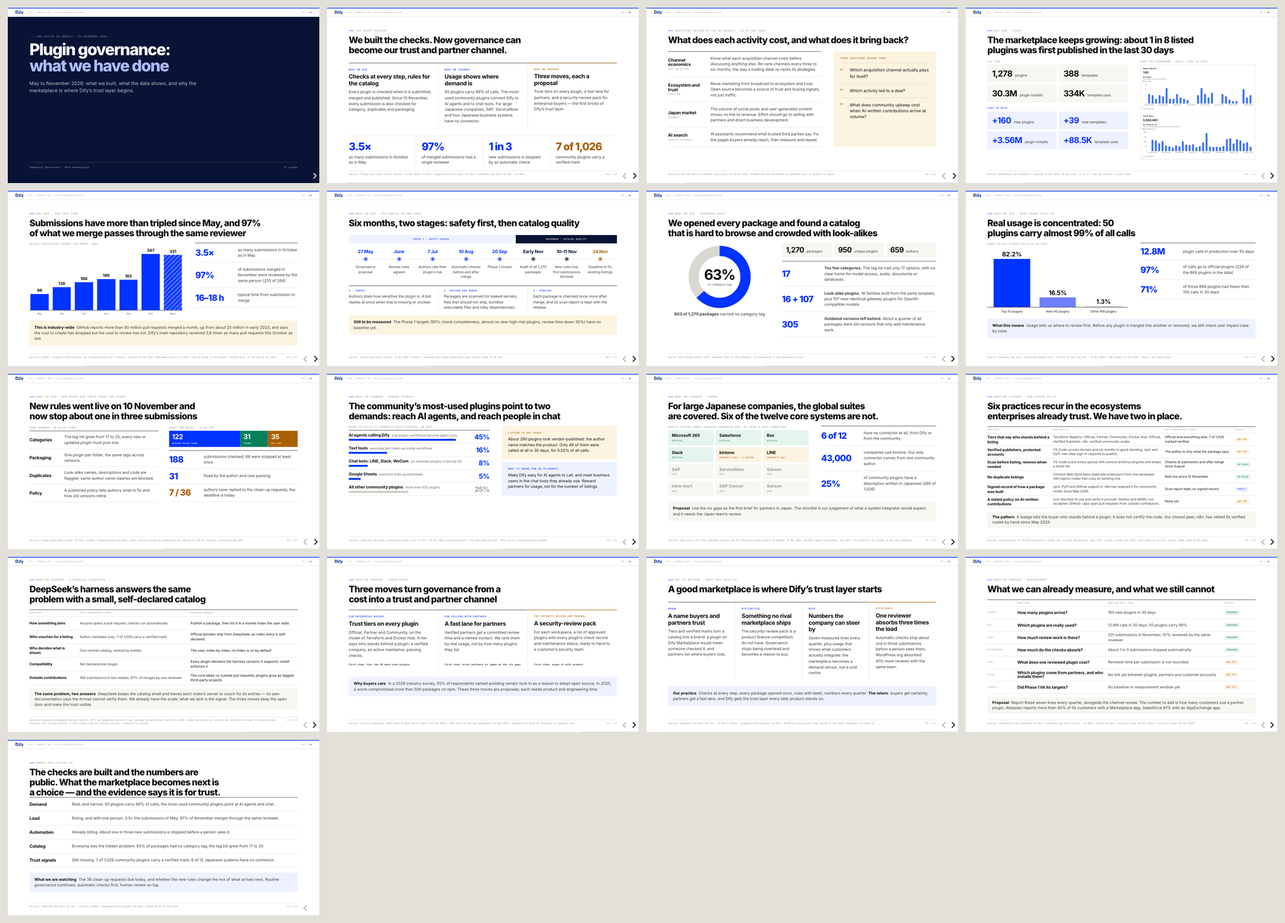
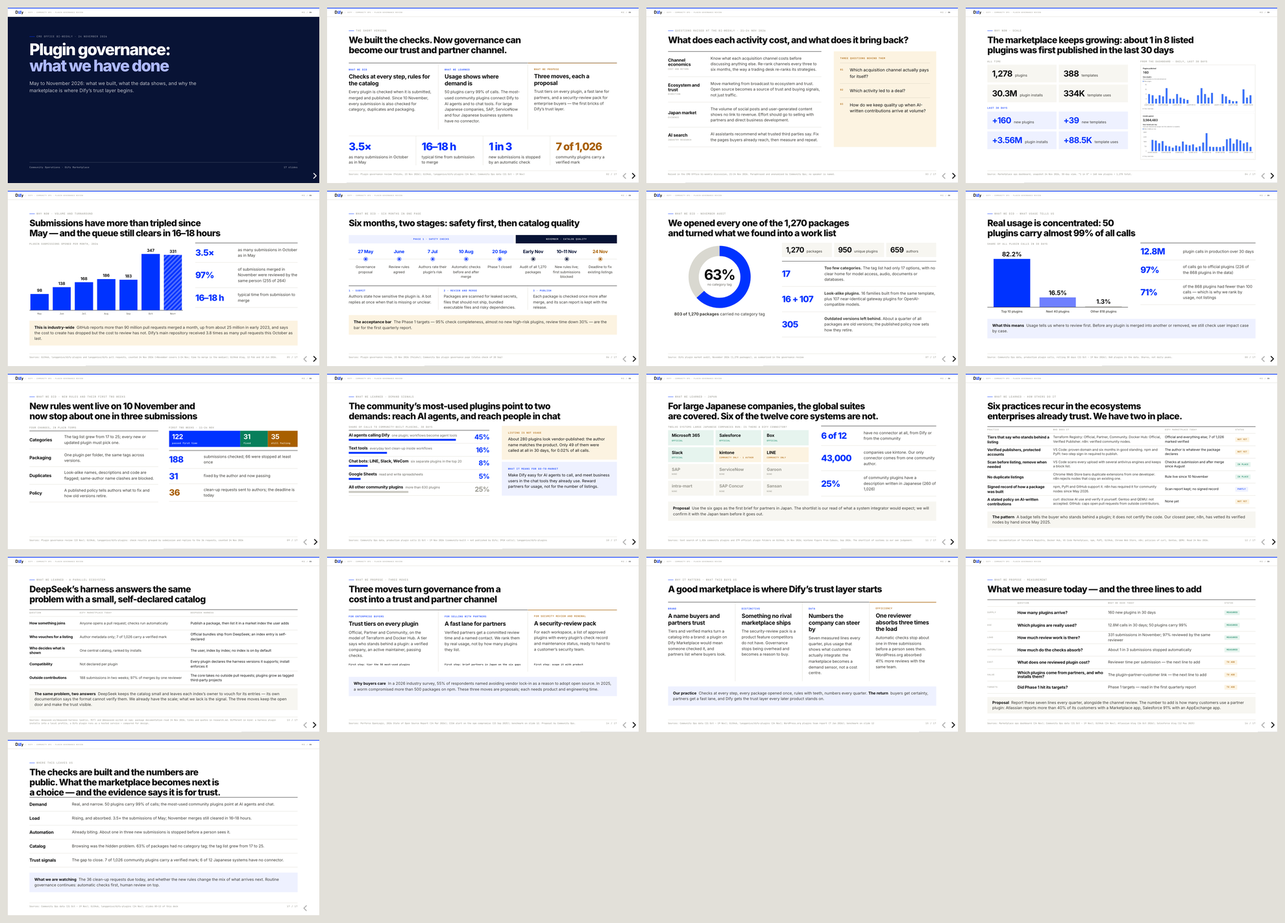
Remove self-critical framing from the deck, keep the data
A pass over both languages for wording that reads against our own
department. No figure, source or structure changed; the honest record
stays in source-map.md.

- Slide 02: the summary stat is now turnaround (16-18 h) instead of
  single-reviewer concentration.
- Slide 03: the third question asks how quality is kept up, not what
  community upkeep costs.
- Slide 05: eyebrow and headline lead with volume absorbed and the
  queue still clearing in 16-18 hours.
- Slide 06: the Phase 1 targets are stated as the acceptance bar for
  the first quarterly report, not as a missing baseline.
- Slide 07: the audit headline frames 1,270 packages opened as a work
  list; old versions retire under the published policy.
- Slide 08: the long tail now carries the reason we rank by usage.
- Slide 09: the flow segment reads "still failing"; the author-reply
  count moves to the speaker notes.
- Slide 11: the shortlist will be confirmed with the Japan team before
  it goes out, rather than needing their review.
- Slide 12: the author is whatever the package declares.
- Slide 16: the three gaps are the lines we propose to add.
- Slide 17: observations lead with the fix or the gap to close.

Also lands the slide 09 flow-label change that PR #20 listed but whose
edit never ran.

diff --git a/plugin-governance-review/index_en.html b/plugin-governance-review/index_en.html
@@ -43,12 +43,12 @@
       </div>
       <div class="grid c4 stats">
         <div class="stat sm"><b>3.5×</b><span>as many submissions in October as in May</span></div>
-        <div class="stat sm"><b>97%</b><span>of merged submissions had a single reviewer</span></div>
+        <div class="stat sm"><b>16–18 h</b><span>typical time from submission to merge</span></div>
         <div class="stat sm"><b>1 in 3</b><span>new submissions is stopped by an automatic check</span></div>
         <div class="stat sm amber"><b>7 of 1,026</b><span>community plugins carry a verified mark</span></div>
       </div>
       <div class="source-bar"><span>Sources: Plugin governance review (Feishu, 23 Nov 2026); GitHub, langgenius/dify-plugins (24 Nov); Community Ops data (21 Oct – 19 Nov)</span><span>02 / 17</span></div>
-      <aside class="notes">Three parts: what we did, what we learned, what we propose. 3.5 times: 347 pull requests opened in October against 98 in May. 97%: 255 of the 264 submissions merged from 1 to 24 Nov carry a review by the same reviewer. 1 in 3: 66 of 188 submissions failed the governance check at least once between 11 and 24 Nov. 7 of 1,026: packages in the community repository whose metadata is marked verified.</aside>
+      <aside class="notes">Three parts: what we did, what we learned, what we propose. 3.5 times: 347 pull requests opened in October against 98 in May. 16–18 hours: the median from submission to merge; September 14.2, October 17.6, November 15.8. 1 in 3: 66 of 188 submissions failed the governance check at least once between 11 and 24 Nov. 7 of 1,026: packages in the community repository whose metadata is marked verified.</aside>
     </section>
 
     <!-- 03 -->
@@ -67,7 +67,7 @@
           <ol class="pain">
             <li>Which acquisition channel actually pays for itself?</li>
             <li>Which activity led to a deal?</li>
-            <li>What does community upkeep cost when AI-written contributions arrive at volume?</li>
+            <li>How do we keep quality up when AI-written contributions arrive at volume?</li>
           </ol>
         </div>
       </div>
@@ -95,8 +95,8 @@
 
     <!-- 05 -->
     <section data-slide-id="s05-load">
-      <div class="eyebrow">Why now · The cost side</div>
-      <h2>Submissions have more than tripled since May, and 97% of what we merge passes through the same reviewer</h2>
+      <div class="eyebrow">Why now · Volume and turnaround</div>
+      <h2>Submissions have more than tripled since May — and the queue still clears in 16–18 hours</h2>
       <div class="split s-60" style="margin-top:30px">
         <div>
           <span class="label">Plugin submissions opened per month, 2026</span>
@@ -121,7 +121,7 @@
       <div class="phases tight"><span>Phase 1 · Safety checks</span><span>November · Catalog quality</span></div>
       <div class="tl tight"><div class="ev "><b>27 May</b><i></i><p>Governance proposal</p></div><div class="ev "><b>June</b><i></i><p>Review rules agreed</p></div><div class="ev "><b>7 Jul</b><i></i><p>Authors rate their plugin’s risk</p></div><div class="ev "><b>10 Aug</b><i></i><p>Automatic checks before and after merge</p></div><div class="ev "><b>20 Sep</b><i></i><p>Phase 1 closed</p></div><div class="ev nov"><b>Early Nov</b><i></i><p>Audit of all 1,270 packages</p></div><div class="ev nov"><b>10–11 Nov</b><i></i><p>New rules live; first submissions blocked</p></div><div class="ev now"><b>24 Nov</b><i></i><p>Deadline to fix existing listings</p></div></div>
       <div class="mini"><div><span class="label blue">1 · Submit</span><p>Authors state how sensitive the plugin is. A bot replies at once when that is missing or unclear.</p></div><div><span class="label blue">2 · Review and merge</span><p>Packages are scanned for leaked secrets, files that should not ship, bundled executable files and risky dependencies.</p></div><div><span class="label blue">3 · Publish</span><p>Each package is checked once more after merge, and its scan report is kept with the release.</p></div></div>
-      <div class="band amber"><b>Still to be measured</b>&nbsp; The Phase 1 targets (95% check completeness, almost no new high-risk plugins, review time down 30%) have no baseline yet.</div>
+      <div class="band amber"><b>The acceptance bar</b>&nbsp; The Phase 1 targets — 95% check completeness, almost no new high-risk plugins, review time down 30% — are the bar for the first quarterly report.</div>
       <div class="source-bar"><span>Sources: Plugin governance review, 23 Nov 2026 (Feishu); Community Ops plugin governance page (status check of 20 Sep)</span><span>06 / 17</span></div>
       <aside class="notes">27 May: proposal covering submission, listing and maintenance. June: what blocks versus what goes to human review. 7 Jul: risk self-assessment and bot feedback. 10 Aug: pre-check and post-merge re-check. 20 Sep: Phase 1 confirmed closed. November: full audit; 10 Nov four governance changes merged; 11 Nov first real submissions blocked; 24 Nov first author remediation deadline. Authors can also run the same checks locally, and the official plugin repository has basic quality checks.</aside>
     </section>
@@ -129,7 +129,7 @@
     <!-- 07 -->
     <section data-slide-id="s07-audit">
       <div class="eyebrow">What we did · November audit</div>
-      <h2>We opened every package and found a catalog that is hard to browse and crowded with look-alikes</h2>
+      <h2>We opened every one of the 1,270 packages and turned what we found into a work list</h2>
       <div class="split s-40" style="margin-top:30px;gap:70px">
         <div>
           <div class="donut"><svg viewBox="0 0 200 200"><circle cx="100" cy="100" r="76" fill="none" stroke="#d9d8d0" stroke-width="30"/><circle cx="100" cy="100" r="76" fill="none" stroke="#0033ff" stroke-width="30" stroke-dasharray="301.8 477.5"/></svg><div><b>63%</b><span>no category tag</span></div></div>
@@ -140,7 +140,7 @@
           <div class="rows" style="margin-top:26px">
             <div class="row"><span class="num">17</span><p><b>Too few categories.</b> The tag list had only 17 options, with no clear home for model access, audio, documents or databases.</p></div>
             <div class="row"><span class="num">16 + 107</span><p><b>Look-alike plugins.</b> 16 families built from the same template, plus 107 near-identical gateway plugins for OpenAI-compatible models.</p></div>
-            <div class="row"><span class="num">305</span><p><b>Outdated versions left behind.</b> About a quarter of all packages were old versions that only add maintenance work.</p></div>
+            <div class="row"><span class="num">305</span><p><b>Outdated versions left behind.</b> About a quarter of all packages are old versions; the published policy now sets how they retire.</p></div>
           </div>
         </div>
       </div>
@@ -161,7 +161,7 @@
         <div class="rows">
           <div class="row"><span class="num">12.8M</span><p>plugin calls in production over 30 days</p></div>
           <div class="row"><span class="num">97%</span><p>of calls go to official plugins (226 of the 868 plugins in the data)</p></div>
-          <div class="row"><span class="num">71%</span><p>of those 868 plugins had fewer than 100 calls in 30 days</p></div>
+          <div class="row"><span class="num">71%</span><p>of the 868 plugins had fewer than 100 calls — which is why we rank by usage, not listings</p></div>
         </div>
       </div>
       <div class="band tint"><b>What this means</b>&nbsp; Usage tells us where to review first. Before any plugin is merged into another or removed, we still check user impact case by case.</div>
@@ -180,16 +180,16 @@
         </div>
         <div>
           <span class="label">First two weeks · 11–24 Nov</span>
-          <div class="flow sm"><div class="ok" style="flex:122"><b>122</b><span>passed first time</span></div><div class="fixed" style="flex:40"><b>31</b><span>fixed</span></div><div class="open" style="flex:44"><b>35</b><span>not yet</span></div></div>
+          <div class="flow sm"><div class="ok" style="flex:122"><b>122</b><span>passed first time</span></div><div class="fixed" style="flex:40"><b>31</b><span>fixed</span></div><div class="open" style="flex:44"><b>35</b><span>still failing</span></div></div>
           <div class="rows compact" style="margin-top:22px">
             <div class="row"><span class="num">188</span><p>submissions checked; 66 were stopped at least once</p></div>
             <div class="row"><span class="num">31</span><p>fixed by the author and now passing</p></div>
-            <div class="row"><span class="num" style="color:var(--amber)">7 / 36</span><p>authors have replied to the clean-up requests; the deadline is today</p></div>
+            <div class="row"><span class="num" style="color:var(--amber)">36</span><p>clean-up requests sent to authors; the deadline is today</p></div>
           </div>
         </div>
       </div>
       <div class="source-bar"><span>Sources: Plugin governance review (23 Nov); GitHub, langgenius/dify-plugins: check results grouped by submission and replies to the 36 requests, counted 24 Nov 2026</span><span>09 / 17</span></div>
-      <aside class="notes">10 Nov: four governance changes merged (tags, packaging, near-duplicates, policy). First real blocks on 11 Nov: one update with conflicting tags across versions, one submission with no category; both were fixed and merged. Counts: 331 governance runs between 11 and 24 Nov grouped by pull request title into 188 submissions; 122 never failed; 66 failed at least once, of which 31 passed on their latest run and 35 did not (some were closed). A failed run can occasionally be a workflow error, so one in three is approximate. Next for existing listings: case-by-case review.</aside>
+      <aside class="notes">10 Nov: four governance changes merged (tags, packaging, near-duplicates, policy). First real blocks on 11 Nov: one update with conflicting tags across versions, one submission with no category; both were fixed and merged. Counts: 331 governance runs between 11 and 24 Nov grouped by pull request title into 188 submissions; 122 never failed; 66 failed at least once, of which 31 passed on their latest run and 35 did not (some were closed). A failed run can occasionally be a workflow error, so one in three is approximate. As of 14:30 on 24 Nov, 7 of the 36 authors had replied to a clean-up request. Next for existing listings: case-by-case review.</aside>
     </section>
 
     <!-- 10 -->
@@ -225,7 +225,7 @@
           <div class="row"><span class="num">25%</span><p>of community plugins have a description written in Japanese (260 of 1,026)</p></div>
         </div>
       </div>
-      <div class="band"><b>Proposal</b>&nbsp; Use the six gaps as the first brief for partners in Japan. The shortlist is our judgement of what a system integrator would expect, and it needs the Japan team’s review.</div>
+      <div class="band"><b>Proposal</b>&nbsp; Use the six gaps as the first brief for partners in Japan. The shortlist is our read of what a system integrator would expect; we will confirm it with the Japan team before it goes out.</div>
       <div class="source-bar"><span>Sources: text search of 1,026 community plugins and 279 official plugin folders on GitHub, 24 Nov 2026; kintone figure from Cybozu, Sep 2026. The shortlist of systems is our own judgement.</span><span>11 / 17</span></div>
       <aside class="notes">Method: keyword search over plugin names and descriptions, then over every text file in the latest version of each package. Official plugins exist for Microsoft 365 (Teams, Outlook, SharePoint, OneDrive), Salesforce, Box (as a data source) and Slack. kintone has two plugins from one community author, with 94 calls in 30 days. LINE has three community plugins; it is a customer channel with more than 100 million monthly users in Japan, not an internal system. Nothing was found for SAP, ServiceNow, Garoon, intra-mart, SAP Concur or Sansan, nor for LINE WORKS, Chatwork, Money Forward, SmartHR, CloudSign, KING OF TIME, COMPANY, desknet’s NEO, OBIC or HENNGE. Vendor-stated reach: Box 22,000 companies in Japan; Garoon 8,700 companies; intra-mart 11,900. SAP and ServiceNow are on the list by judgement; we found no verified customer counts for Japan.</aside>
     </section>
@@ -237,7 +237,7 @@
       <div class="score">
         <div class="sc bm head"><span>Practice</span><span>Who does it</span><span>Dify Marketplace today</span><span>Status</span></div>
         <div class="sc bm"><strong>Tiers that say who stands behind a listing</strong><p>Terraform Registry: Official, Partner, Community. Docker Hub: Official, Verified Publisher. n8n: verified community nodes.</p><p style="color:var(--ink)">Official and everything else; 7 of 1,026 marked verified</p><span class="chip no">Not yet</span></div>
-        <div class="sc bm"><strong>Verified publishers, protected accounts</strong><p>VS Code: proven domain and six months in good standing. npm and PyPI: two-step sign-in required to publish.</p><p style="color:var(--ink)">The author is only what the package says</p><span class="chip no">Not yet</span></div>
+        <div class="sc bm"><strong>Verified publishers, protected accounts</strong><p>VS Code: proven domain and six months in good standing. npm and PyPI: two-step sign-in required to publish.</p><p style="color:var(--ink)">The author is whatever the package declares</p><span class="chip no">Not yet</span></div>
         <div class="sc bm"><strong>Scan before listing, remove when needed</strong><p>VS Code scans every upload with several antivirus engines and keeps a block list.</p><p style="color:var(--ink)">Checks at submission and after merge since August</p><span class="chip">In place</span></div>
         <div class="sc bm"><strong>No duplicate listings</strong><p>Chrome Web Store bans duplicate extensions from one developer. n8n rejects nodes that copy an existing one.</p><p style="color:var(--ink)">Rule live since 10 November</p><span class="chip">In place</span></div>
         <div class="sc bm"><strong>Signed record of how a package was built</strong><p>npm, PyPI and GitHub support it. n8n has required it for community nodes since May 2026.</p><p style="color:var(--ink)">Scan report kept; no signed record</p><span class="chip part">Partly</span></div>
@@ -288,27 +288,27 @@
     <!-- 16 -->
     <section data-slide-id="s16-measure">
       <div class="eyebrow">What we propose · Measurement</div>
-      <h2>What we can already measure, and what we still cannot</h2>
+      <h2>What we measure today — and the three lines to add</h2>
       <div class="score">
         <div class="sc head"><span></span><span>Question</span><span>What we have today</span><span>Status</span></div>
         <div class="sc"><b>Supply</b><strong>How many plugins arrive?</strong><p>160 new plugins in 30 days</p><span class="chip">Measured</span></div>
         <div class="sc"><b>Use</b><strong>Which plugins are really used?</strong><p>12.8M calls in 30 days; 50 plugins carry 99%</p><span class="chip">Measured</span></div>
         <div class="sc"><b>Load</b><strong>How much review work is there?</strong><p>331 submissions in November; 97% reviewed by the same reviewer</p><span class="chip">Measured</span></div>
         <div class="sc"><b>Automation</b><strong>How much do the checks absorb?</strong><p>About 1 in 3 submissions stopped automatically</p><span class="chip">Measured</span></div>
-        <div class="sc"><b>Cost</b><strong>What does one reviewed plugin cost?</strong><p>Reviewer time per submission is not recorded</p><span class="chip no">Not yet</span></div>
-        <div class="sc"><b>Value</b><strong>Which plugins come from partners, and who installs them?</strong><p>No link yet between plugins, partners and customer accounts</p><span class="chip no">Not yet</span></div>
-        <div class="sc"><b>Targets</b><strong>Did Phase 1 hit its targets?</strong><p>No baseline or measurement window yet</p><span class="chip no">Not yet</span></div>
+        <div class="sc"><b>Cost</b><strong>What does one reviewed plugin cost?</strong><p>Reviewer time per submission — the next line to add</p><span class="chip no">To add</span></div>
+        <div class="sc"><b>Value</b><strong>Which plugins come from partners, and who installs them?</strong><p>The plugin–partner–customer link — the next line to add</p><span class="chip no">To add</span></div>
+        <div class="sc"><b>Targets</b><strong>Did Phase 1 hit its targets?</strong><p>Phase 1 targets — read in the first quarterly report</p><span class="chip no">To add</span></div>
       </div>
       <div class="band tightband"><b>Proposal</b>&nbsp; Report these seven lines every quarter, alongside the channel review. The number to add is how many customers use a partner plugin: Atlassian reports more than 40% of its customers with a Marketplace app, Salesforce 91% with an AppExchange app.</div>
       <div class="source-bar"><span>Sources: Marketplace ops dashboard (24 Nov); Community Ops data (21 Oct – 19 Nov); GitHub (24 Nov); Atlassian blog (26 Oct 2026); Salesforce blog (12 May 2025)</span><span>16 / 17</span></div>
-      <aside class="notes">This is the governance team’s answer to the call for a shared, numeric baseline. Four lines are measurable today from existing systems. Three are not: reviewer time, the link between plugins and partner or customer accounts, and the Phase 1 acceptance targets. The quarterly cadence follows the three-to-six-month refresh raised at the bi-weekly.</aside>
+      <aside class="notes">This is the governance team’s answer to the call for a shared, numeric baseline. Four lines are measurable today from existing systems. The other three are the lines we propose to add: reviewer time per submission, the link between plugins and partner or customer accounts, and the Phase 1 acceptance targets. The quarterly cadence follows the three-to-six-month refresh raised at the bi-weekly.</aside>
     </section>
 
     <!-- 17 -->
     <section data-slide-id="s17-next">
       <div class="eyebrow">Where this leaves us</div>
       <h2>The checks are built and the numbers are public. What the marketplace becomes next is a choice — and the evidence says it is for trust.</h2>
-      <div class="rows"><div class="row"><b>Demand</b><p>Real, and narrow. 50 plugins carry 99% of calls; the most-used community plugins point at AI agents and chat.</p></div><div class="row"><b>Load</b><p>Rising, and with one person. 3.5× the submissions of May; 97% of November merges through the same reviewer.</p></div><div class="row"><b>Automation</b><p>Already biting. About one in three new submissions is stopped before a person sees it.</p></div><div class="row"><b>Catalog</b><p>Browsing was the hidden problem. 63% of packages had no category tag; the tag list grew from 17 to 25.</p></div><div class="row"><b>Trust signals</b><p>Still missing. 7 of 1,026 community plugins carry a verified mark; 6 of 12 Japanese systems have no connector.</p></div></div>
+      <div class="rows"><div class="row"><b>Demand</b><p>Real, and narrow. 50 plugins carry 99% of calls; the most-used community plugins point at AI agents and chat.</p></div><div class="row"><b>Load</b><p>Rising, and absorbed. 3.5× the submissions of May; November merges still cleared in 16–18 hours.</p></div><div class="row"><b>Automation</b><p>Already biting. About one in three new submissions is stopped before a person sees it.</p></div><div class="row"><b>Catalog</b><p>Browsing was the hidden problem. 63% of packages had no category tag; the tag list grew from 17 to 25.</p></div><div class="row"><b>Trust signals</b><p>The gap to close. 7 of 1,026 community plugins carry a verified mark; 6 of 12 Japanese systems have no connector.</p></div></div>
       <div class="band tint"><b>What we are watching</b>&nbsp; The 36 clean-up requests due today, and whether the new rules change the mix of what arrives next. Routine governance continues: automatic checks first, human review on top.</div>
       <div class="source-bar"><span>Sources: Community Ops data (21 Oct – 19 Nov); GitHub, langgenius/dify-plugins (24 Nov); slides 05–13 of this deck</span><span>17 / 17</span></div>
       <aside class="notes">The deck closes without asks on purpose: a statement, then five observations, each traceable to an earlier slide — demand (08, 10), load (05), automation (09), the catalog audit (07), trust signals (11, 12). What we are watching next: the 36 author clean-up requests due 24 Nov, and whether the rules change the mix of new submissions. The three moves on slide 14 remain proposals; nothing on this slide is scoped, staffed or agreed.</aside>

diff --git a/plugin-governance-review/index.html b/plugin-governance-review/index.html
@@ -43,12 +43,12 @@
       </div>
       <div class="grid c4 stats">
         <div class="stat sm"><b>3.5×</b><span>10 月的提交量是 5 月的 3.5 倍</span></div>
-        <div class="stat sm"><b>97%</b><span>的已合并提交由同一个人审核</span></div>
+        <div class="stat sm"><b>16–18 小时</b><span>从提交到合并的典型用时</span></div>
         <div class="stat sm"><b>约 1/3</b><span>的新提交被自动检查拦下</span></div>
         <div class="stat sm amber"><b>7 / 1,026</b><span>社区插件带有认证标记</span></div>
       </div>
       <div class="source-bar"><span>来源：插件治理阶段回顾（飞书，2026-11-23）；GitHub，langgenius/dify-plugins（11 月 24 日）；Community Ops 数据（10 月 21 日–11 月 19 日）</span><span>02 / 17</span></div>
-      <aside class="notes">三部分：做了什么、看到了什么、提议做什么。3.5 倍：10 月新开 347 个 PR，5 月为 98 个。97%：11 月 1–24 日合并的 264 次提交中，255 次由同一位审核人审过。三分之一：11 月 11–24 日的 188 次提交中有 66 次至少没通过一回治理检查。1,026 个中的 7 个：社区仓中元数据标记为 verified 的包。</aside>
+      <aside class="notes">三部分：做了什么、看到了什么、提议做什么。3.5 倍：10 月新开 347 个 PR，5 月为 98 个。16–18 小时：从提交到合并的中位用时；9 月 14.2、10 月 17.6、11 月 15.8。三分之一：11 月 11–24 日的 188 次提交中有 66 次至少没通过一回治理检查。1,026 个中的 7 个：社区仓中元数据标记为 verified 的包。</aside>
     </section>
 
     <!-- 03 -->
@@ -67,7 +67,7 @@
           <ol class="pain">
             <li>哪个获客渠道真的划得来？</li>
             <li>哪件事带来了成交？</li>
-            <li>AI 写的东西成批涌进来之后，社区维护要花多少？</li>
+            <li>AI 写的东西成批涌进来之后，质量怎么保？</li>
           </ol>
         </div>
       </div>
@@ -95,8 +95,8 @@
 
     <!-- 05 -->
     <section data-slide-id="s05-load">
-      <div class="eyebrow">为什么是现在 · 成本这一面</div>
-      <h2>提交量是 5 月的 3.5 倍，而合并的提交 97% 由同一个人审核</h2>
+      <div class="eyebrow">为什么是现在 · 量与周转</div>
+      <h2>提交量是 5 月的 3.5 倍，而从提交到合并依然只要 16–18 小时</h2>
       <div class="split s-60" style="margin-top:30px">
         <div>
           <span class="label">2026 年每月新开的插件提交数</span>
@@ -121,7 +121,7 @@
       <div class="phases tight"><span>一期 · 安全检查</span><span>11 月 · 目录质量</span></div>
       <div class="tl tight"><div class="ev "><b>5 月 27 日</b><i></i><p>提出治理提案</p></div><div class="ev "><b>6 月</b><i></i><p>明确审核规范</p></div><div class="ev "><b>7 月 7 日</b><i></i><p>作者自评风险</p></div><div class="ev "><b>8 月 10 日</b><i></i><p>合并前后自动检查</p></div><div class="ev "><b>9 月 20 日</b><i></i><p>一期结项</p></div><div class="ev nov"><b>11 月上旬</b><i></i><p>1,270 个包全量审计</p></div><div class="ev nov"><b>11 月 10–11 日</b><i></i><p>新规则上线，首批提交被拦</p></div><div class="ev now"><b>11 月 24 日</b><i></i><p>存量整改期限</p></div></div>
       <div class="mini"><div><span class="label blue">1 · 提交</span><p>作者说明插件的敏感程度；信息缺失或不清楚时，机器人立刻回复。</p></div><div><span class="label blue">2 · 审核与合并</span><p>自动扫描泄露的密钥、不该发布的文件、夹带的可执行文件和有风险的依赖。</p></div><div><span class="label blue">3 · 发布</span><p>合并后再检查一次，扫描报告随版本保存。</p></div></div>
-      <div class="band amber"><b>尚待实测</b>&nbsp; 一期验收目标（检查完整率 95%、高风险新增接近零、审核用时下降 30%）还没有基线。</div>
+      <div class="band amber"><b>验收线</b>&nbsp; 一期验收目标——检查完整率 95%、高风险新增接近零、审核用时下降 30%——将作为首份季度报告的验收线。</div>
       <div class="source-bar"><span>来源：插件治理阶段回顾，2026 年 11 月 23 日（飞书）；Community Ops 插件治理页面（9 月 20 日的状态核对）</span><span>06 / 17</span></div>
       <aside class="notes">5 月 27 日：提案覆盖提交、上架与运行维护。6 月：明确哪些直接阻断、哪些交人工复核。7 月 7 日：风险自评与机器人反馈。8 月 10 日：预检查与合并后复验。9 月 20 日：一期确认结项。11 月：全量审计；10 日四项治理变更合并；11 日首批真实提交被拦；24 日为首轮作者整改期限。作者也可以在本地跑同一套检查，官方插件仓库有了基础质量检查。</aside>
     </section>
@@ -129,7 +129,7 @@
     <!-- 07 -->
     <section data-slide-id="s07-audit">
       <div class="eyebrow">做了什么 · 11 月审计</div>
-      <h2>把每个包都打开看了一遍：插件难找，而且雷同的很多</h2>
+      <h2>把 1,270 个包逐个打开看了一遍，把发现的问题变成了待办清单</h2>
       <div class="split s-40" style="margin-top:30px;gap:70px">
         <div>
           <div class="donut"><svg viewBox="0 0 200 200"><circle cx="100" cy="100" r="76" fill="none" stroke="#d9d8d0" stroke-width="30"/><circle cx="100" cy="100" r="76" fill="none" stroke="#0033ff" stroke-width="30" stroke-dasharray="301.8 477.5"/></svg><div><b>63%</b><span>没有分类标签</span></div></div>
@@ -140,7 +140,7 @@
           <div class="rows" style="margin-top:26px">
             <div class="row"><span class="num">17</span><p><b>分类太少。</b> 标签表只有 17 个选项，模型接入、音频、文档、数据库都找不到合适的分类。</p></div>
             <div class="row"><span class="num">16 + 107</span><p><b>雷同插件。</b> 16 组用同一个模板做出来的插件，外加 107 个几乎一样的 OpenAI 兼容网关插件。</p></div>
-            <div class="row"><span class="num">305</span><p><b>旧版本没清。</b> 约四分之一的包是旧版本，只会增加维护负担。</p></div>
+            <div class="row"><span class="num">305</span><p><b>旧版本没清。</b> 约四分之一的包是旧版本；公开的政策已写明旧版本如何退役。</p></div>
           </div>
         </div>
       </div>
@@ -161,7 +161,7 @@
         <div class="rows">
           <div class="row"><span class="num">1,283 万</span><p>次生产环境插件调用（30 天）</p></div>
           <div class="row"><span class="num">97%</span><p>的调用落在官方插件上（数据里的 868 个插件中，官方占 226 个）</p></div>
-          <div class="row"><span class="num">71%</span><p>的插件 30 天内调用不到 100 次</p></div>
+          <div class="row"><span class="num">71%</span><p>的插件 30 天内调用不到 100 次——所以排序看使用量，不看上架数量</p></div>
         </div>
       </div>
       <div class="band tint"><b>这说明什么</b>&nbsp; 调用量告诉我们先复核哪里。但整合或下架任何插件之前，仍要逐个确认对用户的影响。</div>
@@ -184,12 +184,12 @@
           <div class="rows compact" style="margin-top:22px">
             <div class="row"><span class="num">188</span><p>次提交被检查，其中 66 次至少被拦下一回</p></div>
             <div class="row"><span class="num">31</span><p>次由作者修复，现已通过</p></div>
-            <div class="row"><span class="num" style="color:var(--amber)">7 / 36</span><p>位作者回复了整改请求；期限就是今天</p></div>
+            <div class="row"><span class="num" style="color:var(--amber)">36</span><p>条整改请求已发给作者；期限就是今天</p></div>
           </div>
         </div>
       </div>
       <div class="source-bar"><span>来源：插件治理阶段回顾（11 月 23 日）；GitHub，langgenius/dify-plugins：检查结果按提交归并、36 条请求的回复情况，2026 年 11 月 24 日统计</span><span>09 / 17</span></div>
-      <aside class="notes">11 月 10 日：四项治理变更合并（标签、打包、近似重复、政策）。11 日首批真实拦截：一次版本间标签冲突的更新、一次没有分类的提交，都已修复并合并。统计口径：11 月 11–24 日 331 次治理检查运行，按 PR 标题归并为 188 次提交；122 次从未失败；66 次至少失败一回，其中 31 次最近一次运行已通过，35 次仍未通过（部分已关闭）。个别失败可能是工作流本身出错，所以“三分之一”是近似值。存量的下一步：逐条复核。</aside>
+      <aside class="notes">11 月 10 日：四项治理变更合并（标签、打包、近似重复、政策）。11 日首批真实拦截：一次版本间标签冲突的更新、一次没有分类的提交，都已修复并合并。统计口径：11 月 11–24 日 331 次治理检查运行，按 PR 标题归并为 188 次提交；122 次从未失败；66 次至少失败一回，其中 31 次最近一次运行已通过，35 次仍未通过（部分已关闭）。个别失败可能是工作流本身出错，所以“三分之一”是近似值。截至 11 月 24 日 14:30，36 位作者中有 7 位回复了整改请求。存量的下一步：逐条复核。</aside>
     </section>
 
     <!-- 10 -->
@@ -225,7 +225,7 @@
           <div class="row"><span class="num">25%</span><p>的社区插件有日文写的描述（1,026 个中的 260 个）</p></div>
         </div>
       </div>
-      <div class="band"><b>提议</b>&nbsp; 把这六个空缺作为给日本伙伴的第一份需求简报。这份清单是我们对“SIer 会期待接什么”的判断，需要日本团队确认。</div>
+      <div class="band"><b>提议</b>&nbsp; 把这六个空缺作为给日本伙伴的第一份需求简报。这份清单是我们对“SIer 会期待接什么”的判断，发出之前会与日本团队确认。</div>
       <div class="source-bar"><span>来源：对 GitHub 上 1,026 个社区插件和 279 个官方插件目录的文本搜索，2026 年 11 月 24 日；kintone 数字来自 Cybozu，2026 年 9 月。系统清单是我们自己的判断。</span><span>11 / 17</span></div>
       <aside class="notes">方法：先对插件名称和描述做关键词搜索，再对每个包最新版本里的所有文本文件做搜索。有官方插件的：Microsoft 365（Teams、Outlook、SharePoint、OneDrive）、Salesforce、Box（作为数据源）、Slack。kintone 有同一位社区作者的两个插件，30 天调用 94 次。LINE 有三个社区插件；它是面向客户的渠道，在日本月活超过 1 亿，不是内部系统。SAP、ServiceNow、Garoon、intra-mart、SAP Concur、Sansan 都没有找到；LINE WORKS、Chatwork、Money Forward、SmartHR、CloudSign、KING OF TIME、COMPANY、desknet’s NEO、OBIC、HENNGE 也没有。厂商公布的覆盖面：Box 在日本 2.2 万家公司；Garoon 8,700 家；intra-mart 1.19 万家。SAP 和 ServiceNow 入选靠的是判断，我们没有找到经过核实的日本客户数。</aside>
     </section>
@@ -237,7 +237,7 @@
       <div class="score">
         <div class="sc bm head"><span>做法</span><span>谁在做</span><span>Dify Marketplace 现状</span><span>状态</span></div>
         <div class="sc bm"><strong>用层级说明谁在为这个条目背书</strong><p>Terraform Registry：Official、Partner、Community。Docker Hub：Official、Verified Publisher。n8n：认证社区节点。</p><p style="color:var(--ink)">只分官方和其他；1,026 个中 7 个标了认证</p><span class="chip no">尚无</span></div>
-        <div class="sc bm"><strong>核实发布者，保护账号</strong><p>VS Code：证明域名归属，并保持 6 个月良好记录。npm、PyPI：发布必须两步验证。</p><p style="color:var(--ink)">作者是谁，全凭包里怎么写</p><span class="chip no">尚无</span></div>
+        <div class="sc bm"><strong>核实发布者，保护账号</strong><p>VS Code：证明域名归属，并保持 6 个月良好记录。npm、PyPI：发布必须两步验证。</p><p style="color:var(--ink)">作者是谁，全凭包里怎么声明</p><span class="chip no">尚无</span></div>
         <div class="sc bm"><strong>上架前扫描，必要时下架</strong><p>VS Code 每次上传都用多个杀毒引擎扫描，并维护封禁名单。</p><p style="color:var(--ink)">8 月起提交时和合并后都有检查</p><span class="chip">已有</span></div>
         <div class="sc bm"><strong>不允许重复上架</strong><p>Chrome Web Store 禁止同一开发者发布功能重复的扩展。n8n 不收与现有节点重复的节点。</p><p style="color:var(--ink)">规则 11 月 10 日起生效</p><span class="chip">已有</span></div>
         <div class="sc bm"><strong>带签名的构建记录</strong><p>npm、PyPI、GitHub 都支持。n8n 从 2026 年 5 月起要求社区节点必须附带。</p><p style="color:var(--ink)">保留扫描报告，没有签名记录</p><span class="chip part">部分</span></div>
@@ -288,27 +288,27 @@
     <!-- 16 -->
     <section data-slide-id="s16-measure">
       <div class="eyebrow">提议做什么 · 度量</div>
-      <h2>哪些已经能量化，哪些还不能</h2>
+      <h2>今天已经在量的，以及提议补上的三行</h2>
       <div class="score">
         <div class="sc head"><span></span><span>问题</span><span>今天手里有什么</span><span>状态</span></div>
         <div class="sc"><b>供给</b><strong>有多少插件进来？</strong><p>30 天新增 160 个插件</p><span class="chip">已能量化</span></div>
         <div class="sc"><b>使用</b><strong>哪些插件真的有人用？</strong><p>30 天 1,283 万次调用，50 个插件占 99%</p><span class="chip">已能量化</span></div>
         <div class="sc"><b>工作量</b><strong>审核量有多大？</strong><p>11 月 331 次提交，97% 由同一个人审核</p><span class="chip">已能量化</span></div>
         <div class="sc"><b>自动化</b><strong>自动检查消化了多少？</strong><p>约三分之一的提交被自动拦下</p><span class="chip">已能量化</span></div>
-        <div class="sc"><b>成本</b><strong>审一个插件要花多少？</strong><p>没有记录每次提交的审核工时</p><span class="chip no">尚未量化</span></div>
-        <div class="sc"><b>价值</b><strong>哪些插件来自伙伴？谁在安装？</strong><p>插件、伙伴和客户账户之间还没有打通</p><span class="chip no">尚未量化</span></div>
-        <div class="sc"><b>目标</b><strong>一期达标了吗？</strong><p>还没有基线和统计窗口</p><span class="chip no">尚未量化</span></div>
+        <div class="sc"><b>成本</b><strong>审一个插件要花多少？</strong><p>每次提交的审核工时——下一条要补的数</p><span class="chip no">待补上</span></div>
+        <div class="sc"><b>价值</b><strong>哪些插件来自伙伴？谁在安装？</strong><p>插件与伙伴、客户账户的关联——下一条要补的数</p><span class="chip no">待补上</span></div>
+        <div class="sc"><b>目标</b><strong>一期达标了吗？</strong><p>一期验收目标——首份季度报告里见</p><span class="chip no">待补上</span></div>
       </div>
       <div class="band tightband"><b>提议</b>&nbsp; 这七行每季度汇报一次，和渠道复盘同步。还要补一个数：有多少客户在用伙伴插件。Atlassian 说 40% 以上的客户装了 Marketplace 应用，Salesforce 说 91% 的客户至少用了一个 AppExchange 应用。</div>
       <div class="source-bar"><span>来源：Marketplace 运营看板（11 月 24 日）；Community Ops 数据（10 月 21 日–11 月 19 日）；GitHub（11 月 24 日）；Atlassian 博客（2026 年 10 月 26 日）；Salesforce 博客（2025 年 5 月 12 日）</span><span>16 / 17</span></div>
-      <aside class="notes">这是治理这条线交出的共同数字基线。四行今天就能从现有系统里取数；三行还不行：审核工时、插件与伙伴或客户账户的关联、一期验收目标。按季度汇报，对应双周会上提过的三到六个月更新节奏。</aside>
+      <aside class="notes">这是治理这条线交出的共同数字基线。四行今天就能从现有系统里取数；另外三行是提议补上的：每次提交的审核工时、插件与伙伴或客户账户的关联、一期验收目标。按季度汇报，对应双周会上提过的三到六个月更新节奏。</aside>
     </section>
 
     <!-- 17 -->
     <section data-slide-id="s17-next">
       <div class="eyebrow">收尾</div>
       <h2>检查已经建好，数字已经摆在外面。这个市场接下来是什么，取决于我们怎么定——而证据指向信任。</h2>
-      <div class="rows"><div class="row"><b>需求</b><p>真实而集中。50 个插件承担 99% 的调用；社区里用得最多的，指向 AI Agent 和聊天工具。</p></div><div class="row"><b>审核量</b><p>在涨，而且压在一个人身上。提交量是 5 月的 3.5 倍；11 月合并的 97% 出自同一位审核人。</p></div><div class="row"><b>自动化</b><p>已经开始咬住。约三分之一的新提交，在被人看到之前就被拦下。</p></div><div class="row"><b>目录</b><p>“难找”曾是隐性问题。63% 的包没有分类标签；标签表已从 17 个扩到 25 个。</p></div><div class="row"><b>信任信号</b><p>仍然缺失。1,026 个社区插件里只有 7 个带认证标记；日本 12 个常用系统里 6 个没有连接器。</p></div></div>
+      <div class="rows"><div class="row"><b>需求</b><p>真实而集中。50 个插件承担 99% 的调用；社区里用得最多的，指向 AI Agent 和聊天工具。</p></div><div class="row"><b>审核量</b><p>在涨，也扛住了。提交量是 5 月的 3.5 倍；11 月的合并依然只要 16–18 小时。</p></div><div class="row"><b>自动化</b><p>已经开始咬住。约三分之一的新提交，在被人看到之前就被拦下。</p></div><div class="row"><b>目录</b><p>目录难找。63% 的包没有分类标签；标签表已从 17 个扩到 25 个。</p></div><div class="row"><b>信任信号</b><p>要补的缺口。1,026 个社区插件里只有 7 个带认证标记；日本 12 个常用系统里 6 个没有连接器。</p></div></div>
       <div class="band tint"><b>接下来在看什么</b>&nbsp; 今天到期的 36 条整改请求，以及新规则会不会改变新提交的构成。日常治理不变：先过自动检查，再上人工审核。</div>
       <div class="source-bar"><span>来源：Community Ops 数据（10 月 21 日–11 月 19 日）；GitHub，langgenius/dify-plugins（11 月 24 日）；本 deck 第 05–13 页</span><span>17 / 17</span></div>
       <aside class="notes">这一页刻意不提要求：一个结论，加五条观察，每条都能追溯到前面的页——需求（08、10），审核量（05），自动化（09），目录审计（07），信任信号（11、12）。接下来在看：11 月 24 日到期的 36 条作者整改请求，以及规则会不会改变新提交的构成。第 14 页的三个动作仍然是提议；这一页没有任何一项已定范围、已排人或已获同意。</aside>

diff --git a/plugin-governance-review/README.md b/plugin-governance-review/README.md
@@ -37,4 +37,4 @@ A 17-slide review of Dify plugin governance from May to November 2026, written f
 - "Vendor-published" on slide 10 is a heuristic (author name appears in the plugin name), not a census.
 - The twelve systems on slide 11 were chosen by Community Ops for large Japanese companies; SAP and ServiceNow are there by judgement, without a verified Japan customer count, and the Japan team has not reviewed the list.
 - Outside figures (GitHub, WordPress.org, Perforce, CISA, Atlassian, Salesforce, Cybozu) are quoted from the pages linked in `research.md`; they are context, not evidence about Dify.
-- The Phase 1 targets on slide 06 have not been measured against a baseline.
+- The Phase 1 targets on slide 06 are the acceptance bar for the first quarterly report. No baseline has been measured yet, which is why slide 16 lists them as a line to add.

diff --git a/plugin-governance-review/source-map.md b/plugin-governance-review/source-map.md
@@ -40,7 +40,7 @@
 ## Not claimed
 
 - No claim that governance caused growth in installs, usage or revenue.
-- No cost in money: reviewer time is not recorded (slide `s14`).
+- No cost in money: reviewer time is not recorded (slide `s16` lists it as a line to add).
 - No outcome for the 24 November deadline; cases are reviewed one by one.
 - No claim that a trust tier certifies code as safe (slide `s12` says the opposite).
 - No claim about what leadership wants: slide `s03` presents the questions raised at the bi-weekly, paraphrased and anonymised.
